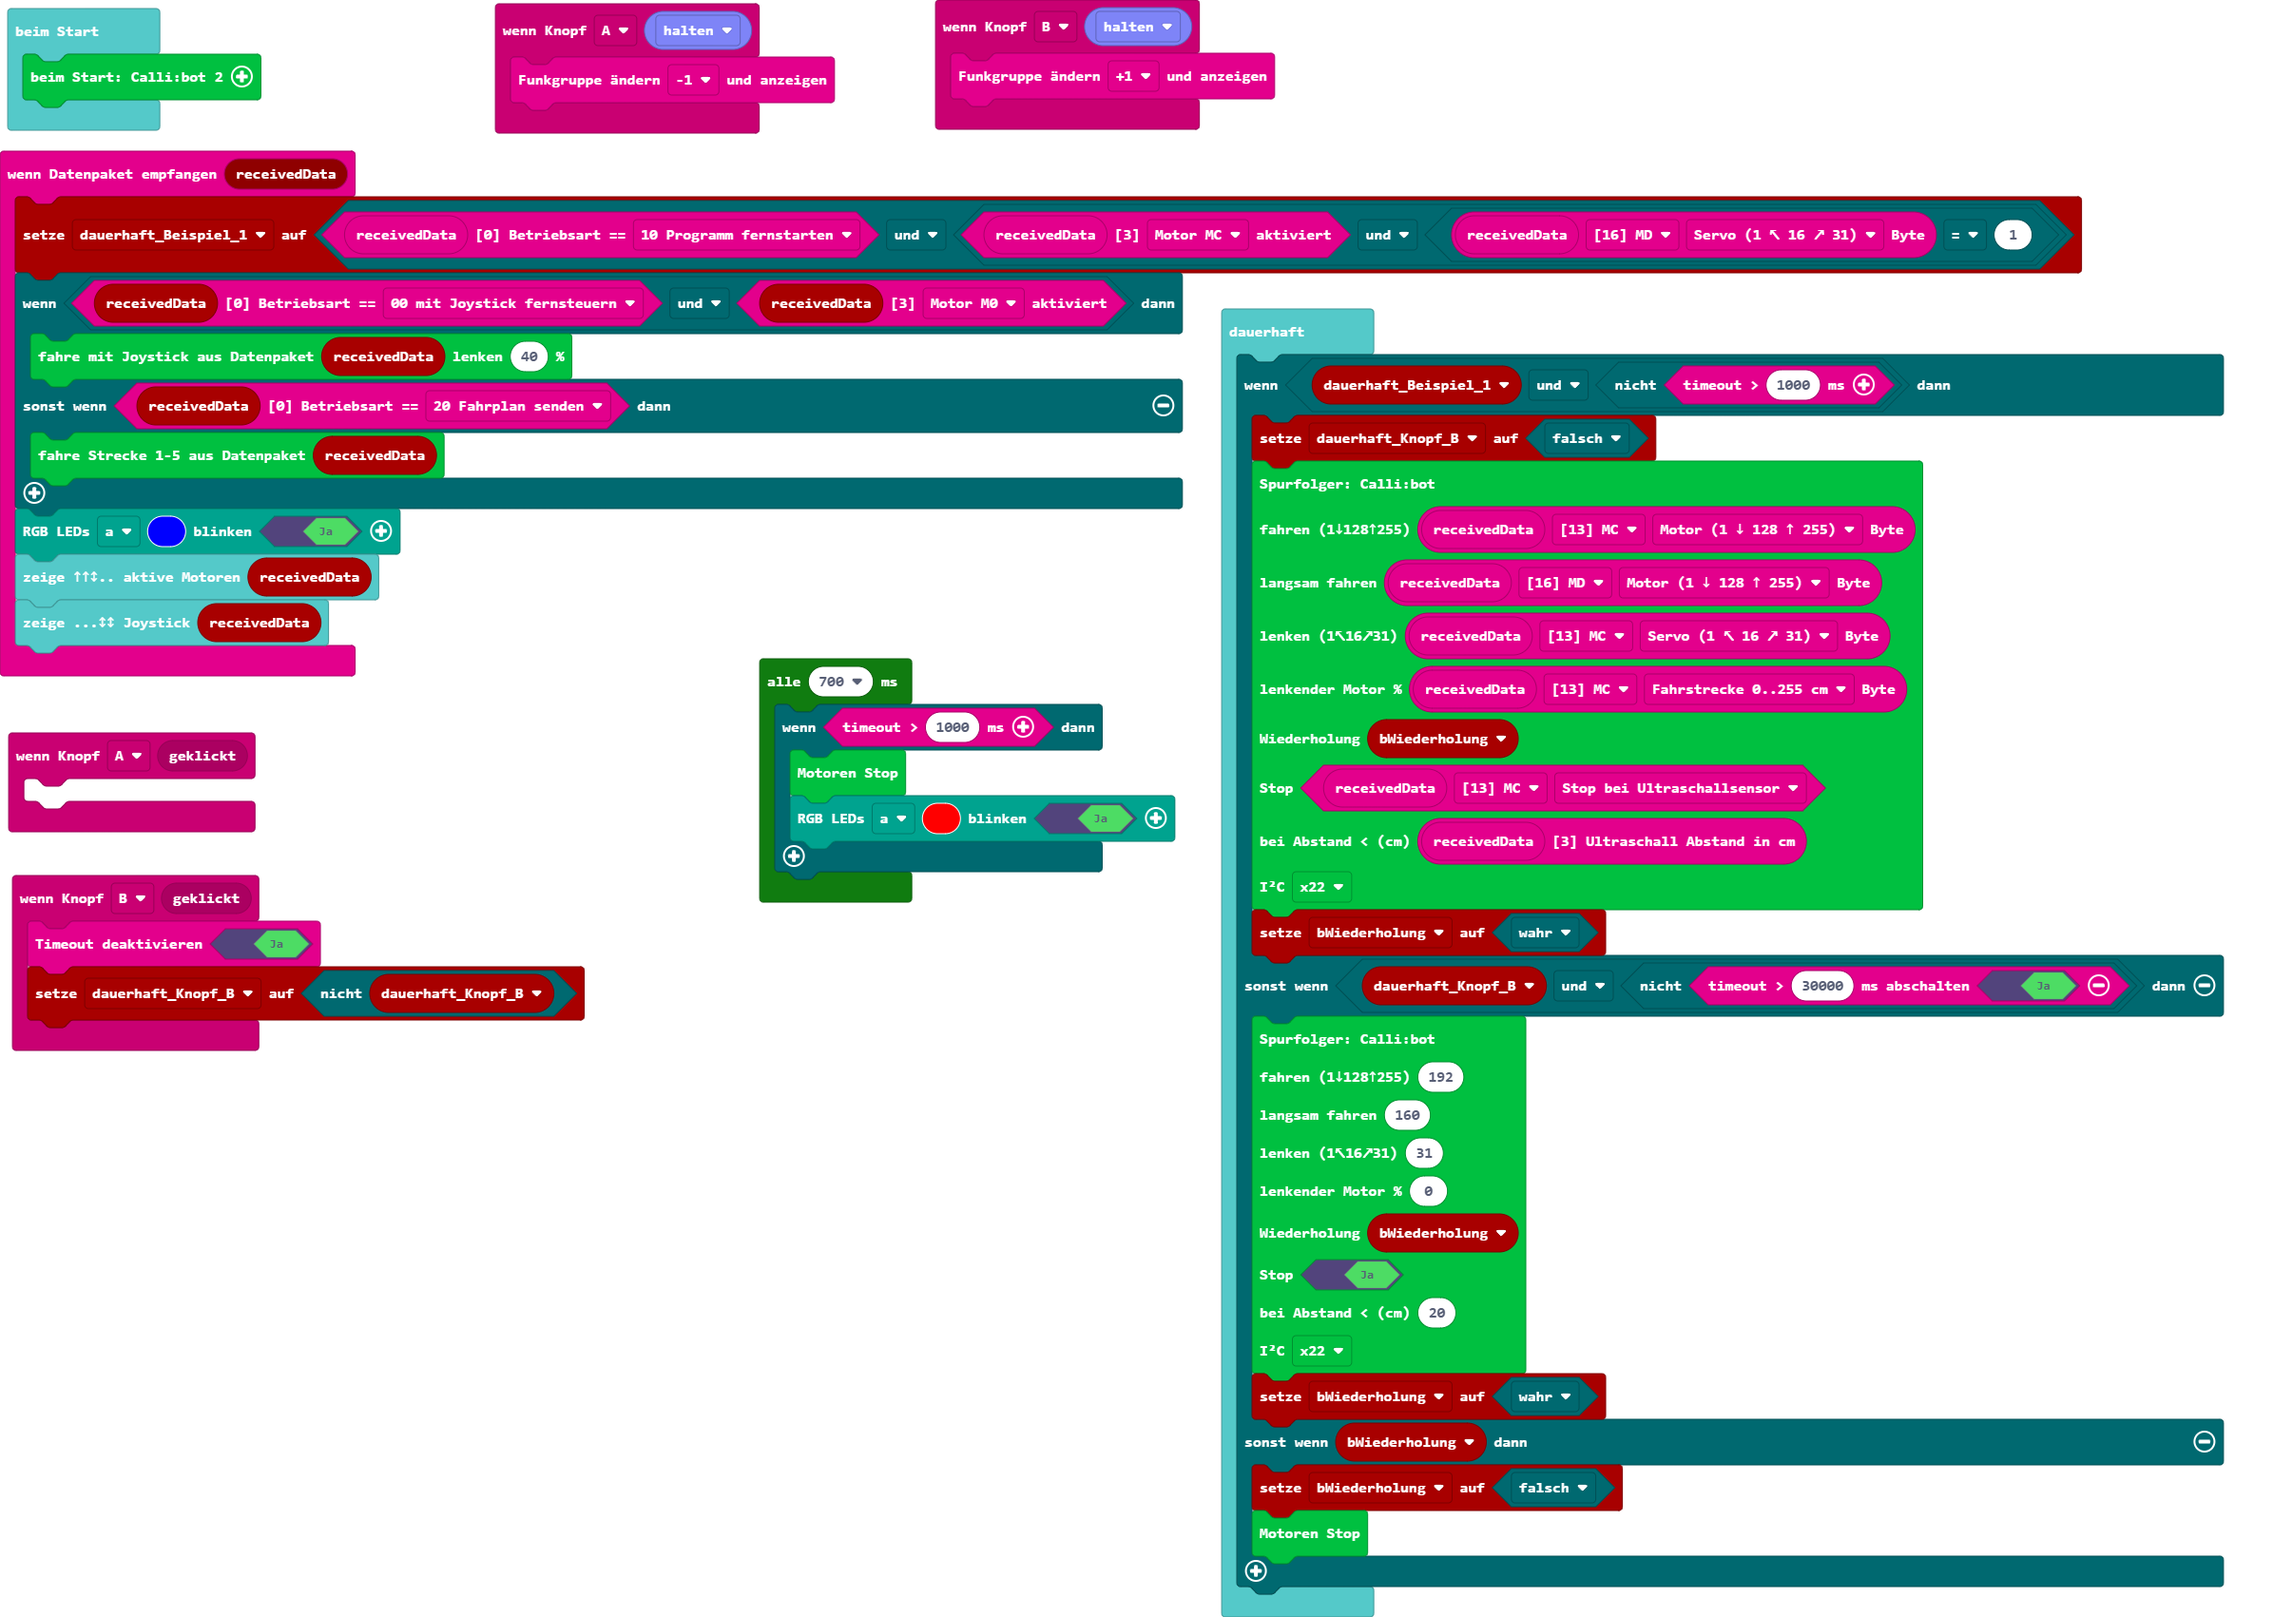
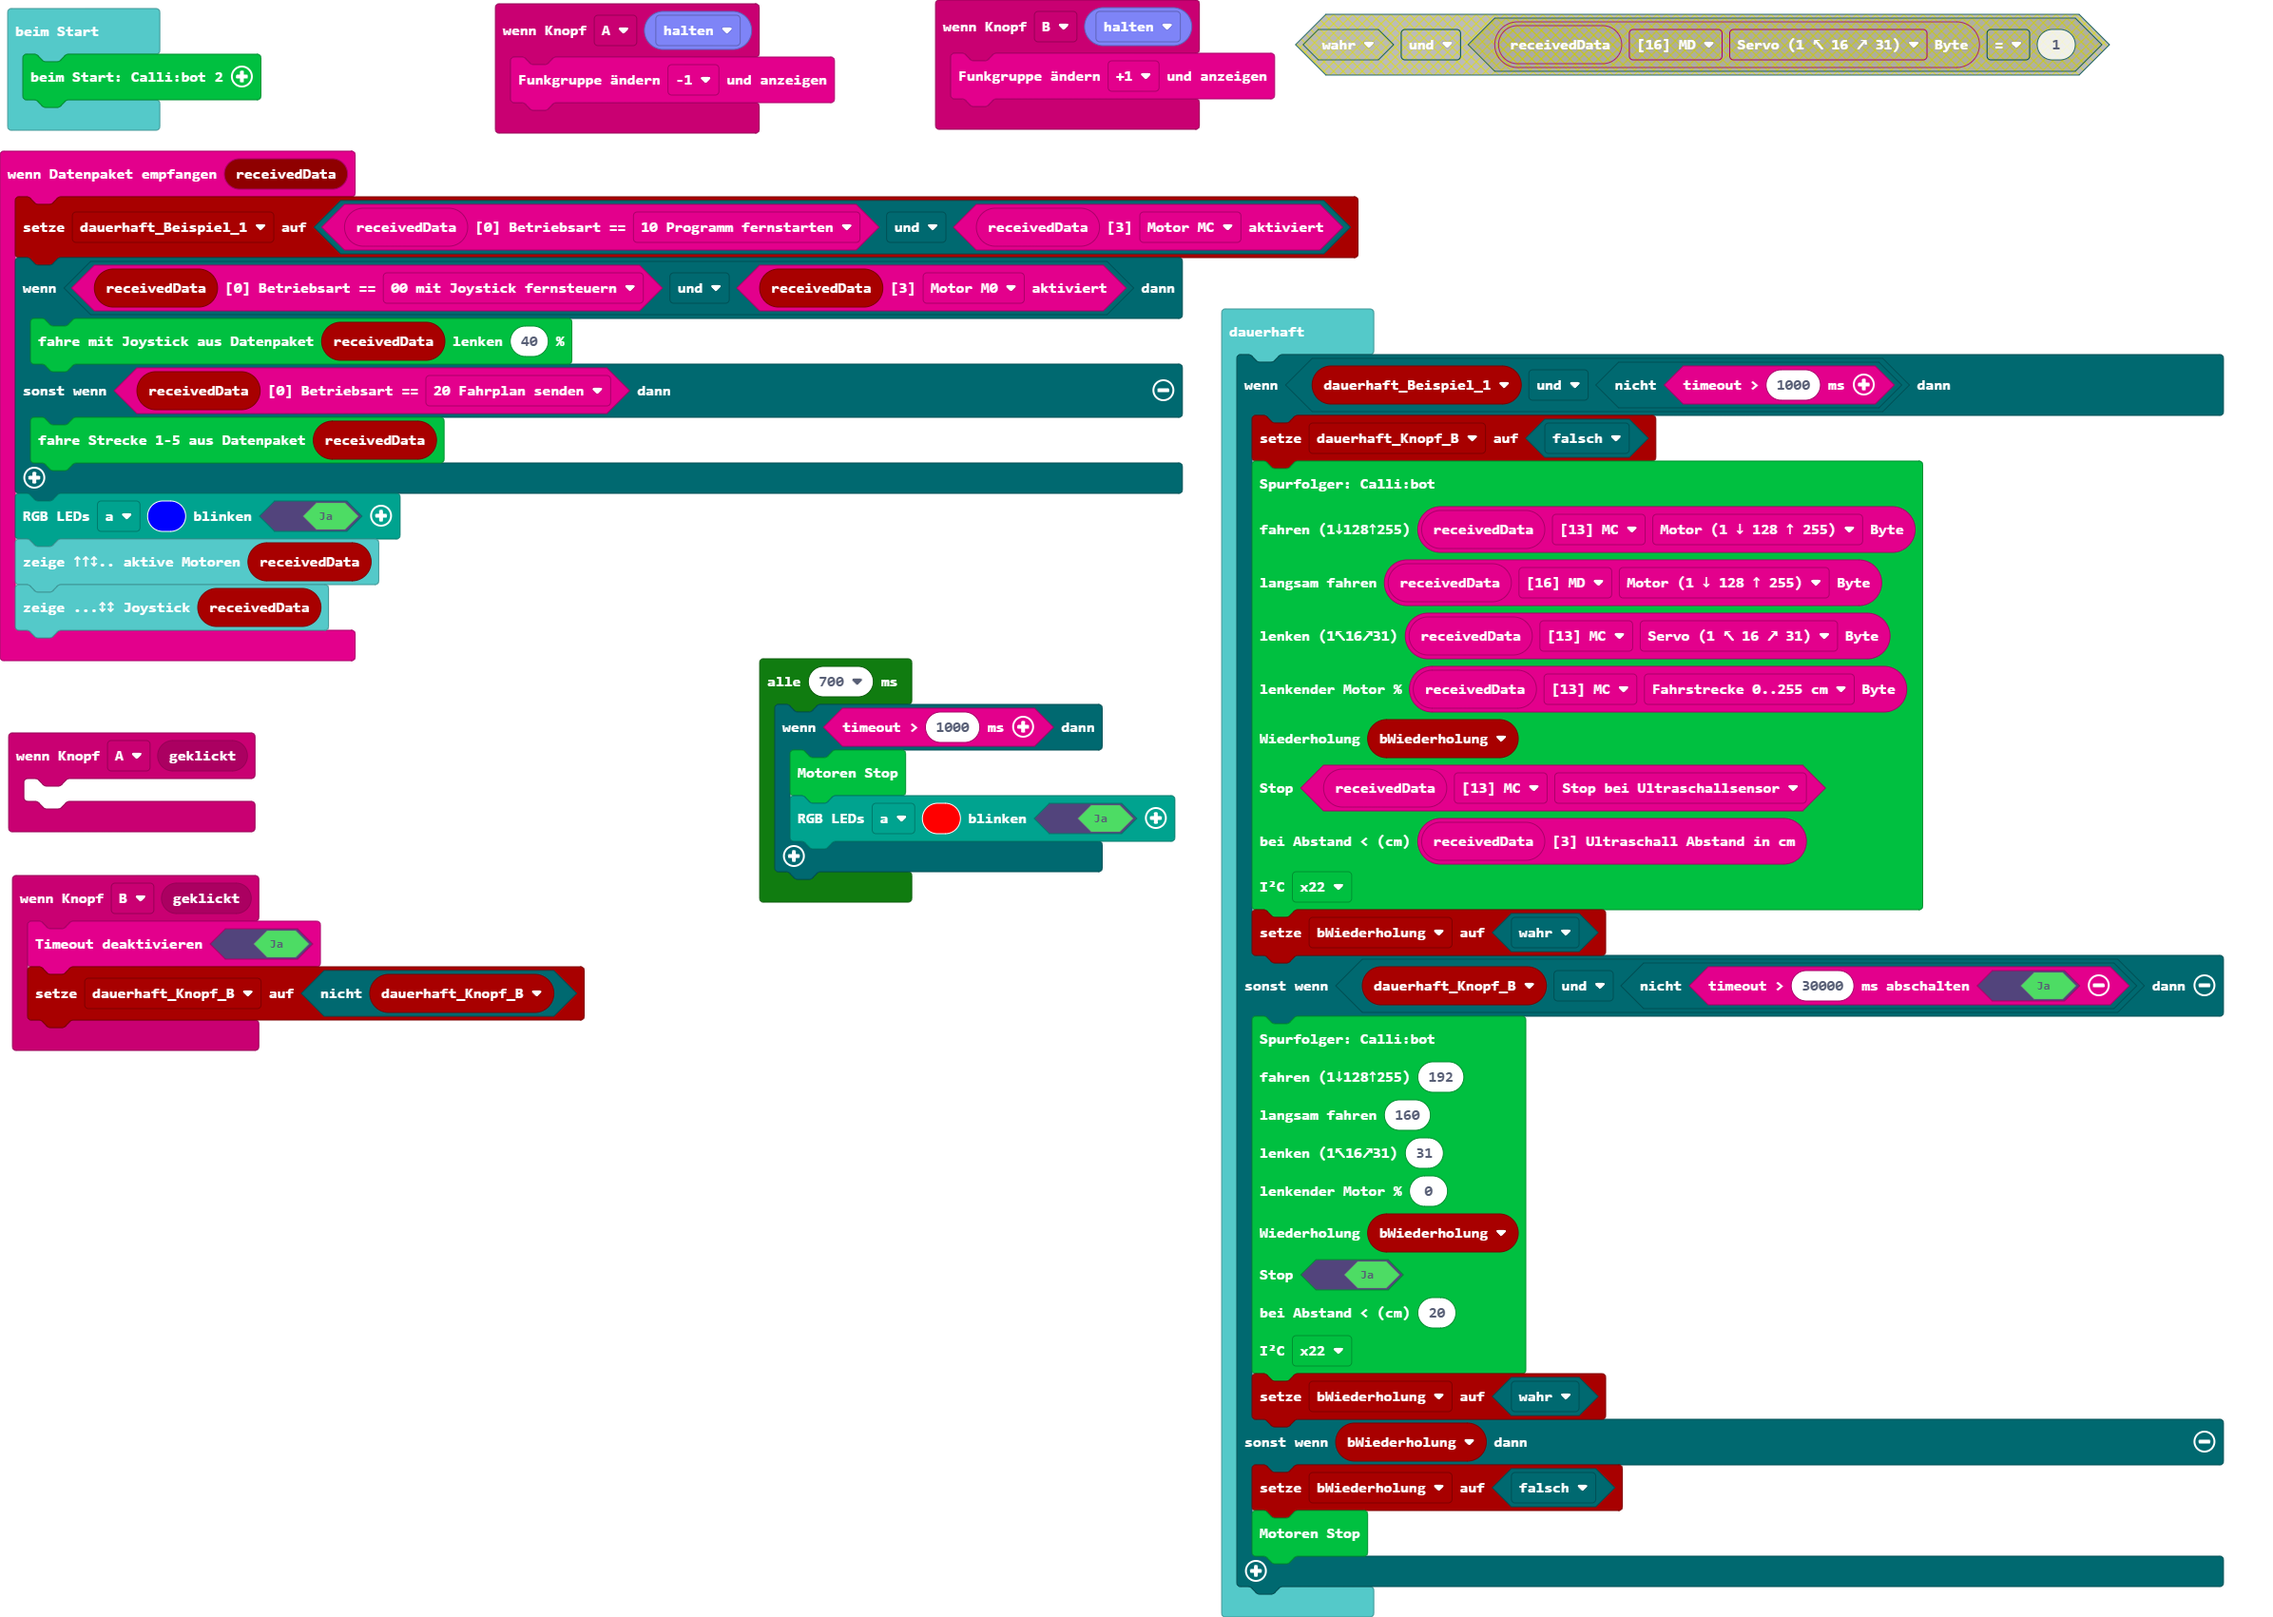
Aktualisiere main.blocks, main.ts

Changed region(s): [[0.0, 0.0935, 0.9285, 0.4362], [0.5571, 0.0, 0.9285, 0.0623]]

diff --git a/main.ts b/main.ts
@@ -9,7 +9,7 @@ input.onButtonEvent(Button.B, btf.buttonEventValue(ButtonEvent.Hold), function (
     btf.setFunkgruppeButton(btf.eFunkgruppeButton.plus)
 })
 btf.onReceivedData(function (receivedData) {
-    dauerhaft_Beispiel_1 = btf.isBetriebsart(btf.btf_receivedBuffer19(), btf.e0Betriebsart.p1Lokal) && (btf.getaktiviert(btf.btf_receivedBuffer19(), btf.e3aktiviert.mc) && btf.getByte(btf.btf_receivedBuffer19(), btf.eBufferPointer.md, btf.eBufferOffset.b1_Servo) == 1)
+    dauerhaft_Beispiel_1 = btf.isBetriebsart(btf.btf_receivedBuffer19(), btf.e0Betriebsart.p1Lokal) && btf.getaktiviert(btf.btf_receivedBuffer19(), btf.e3aktiviert.mc)
     if (btf.isBetriebsart(receivedData, btf.e0Betriebsart.p0Fahren) && btf.getaktiviert(receivedData, btf.e3aktiviert.m0)) {
         cb2.fahreJoystick(receivedData, 40)
     } else if (btf.isBetriebsart(receivedData, btf.e0Betriebsart.p2Fahrplan)) {
